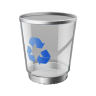
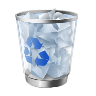
New Delete anim

diff --git a/src/battle-animations-moves.ts b/src/battle-animations-moves.ts
@@ -34149,45 +34149,50 @@ BattleMoveAnims['cakelie'] = {
 };
 BattleMoveAnims['delete'] = {
 	anim(scene, [attacker, defender]) {
-		scene.showEffect('recyclebin', {
+		defender.anim({
 			x: attacker.x,
 			y: attacker.y,
 			z: attacker.z,
-			scale: 0.6,
-			opacity: 0.75,
-			time: 0,
-		}, {
-			x: defender.x,
-			y: defender.y,
-			z: defender.z,
-			scale: 0.6,
-			opacity: 0.75,
 			time: 400,
-		}, 'ballistic');
-		scene.showEffect('recyclebin', {
-			x: attacker.x,
-			y: attacker.y,
-			z: attacker.z,
-			scale: 0.6,
-			opacity: 0.75,
-			time: 400,
-		}, {
-			time: 900,
-		}, 'linear', 'fade');
+		}, 'linear');
 		defender.delay(400);
 		defender.anim({
-			scale: 0.1,
+			scale: 1,
 			time: 900,
 		}, 'linear');
 		defender.anim({
 			time: 400,
 		}, 'accel');
-		scene.showEffect('recyclebinfull', {
+		scene.showEffect('recyclebinback', {
 			x: defender.x,
 			y: defender.y,
 			z: defender.z,
-			scale: 0.6,
-			opacity: 0.75,
+			time: 900,
+		}, {
+			time: 1400,
+		}, 'linear', 'fade');
+	},
+};
+BattleMoveAnims['deleteback'] = {
+	anim(scene, [attacker, defender]) {
+		defender.anim({
+			x: attacker.x,
+			y: attacker.y,
+			z: attacker.z,
+			time: 400,
+		}, 'linear');
+		defender.delay(400);
+		defender.anim({
+			scale: 1,
+			time: 900,
+		}, 'linear');
+		defender.anim({
+			time: 400,
+		}, 'accel');
+		scene.showEffect('recyclebin', {
+			x: defender.x,
+			y: defender.y,
+			z: defender.z,
 			time: 900,
 		}, {
 			time: 1400,

diff --git a/src/battle-animations.ts b/src/battle-animations.ts
@@ -563,6 +563,12 @@ export class BattleScene implements BattleSceneStub {
 			animEntry = BattleMoveAnims['tackle'];
 		} else if (moveid === 'remotemissile' && this.battle.mySide.sideid !== participants[0].side.sideid) {
 			animEntry = BattleMoveAnims['remotemissileback'];
+		} else if (moveid === 'delete' && this.battle.mySide.sideid !== participants[0].side.sideid && participants[0].shiny) {
+			animEntry = BattleMoveAnims['deleteshinyback'];
+		} else if (moveid === 'delete' && participants[0].shiny) {
+			animEntry = BattleMoveAnims['deleteshinyback'];
+		} else if (moveid === 'delete' && this.battle.mySide.sideid !== participants[0].side.sideid) {
+			animEntry = BattleMoveAnims['deleteback'];
 		}
 		animEntry.anim(this, participants.map(p => p.sprite));
 	}
@@ -3167,8 +3173,16 @@ const BattleEffects: {[k: string]: SpriteData} = {
 		url: 'recyclebin.png',
 		w: 96, h: 96,
 	},
-	recyclebinfull: {
-		url: 'recyclebin-full.png',
+	recyclebinback: {
+		url: 'recyclebin-back.png',
+		w: 96, h: 96,
+	},
+	recyclebinxp: {
+		url: 'recyclebin-xp.png',
+		w: 96, h: 96,
+	},
+	recyclebinxpback: {
+		url: 'recyclebin-xp-back.png',
 		w: 96, h: 96,
 	},
 	shinepink: {
